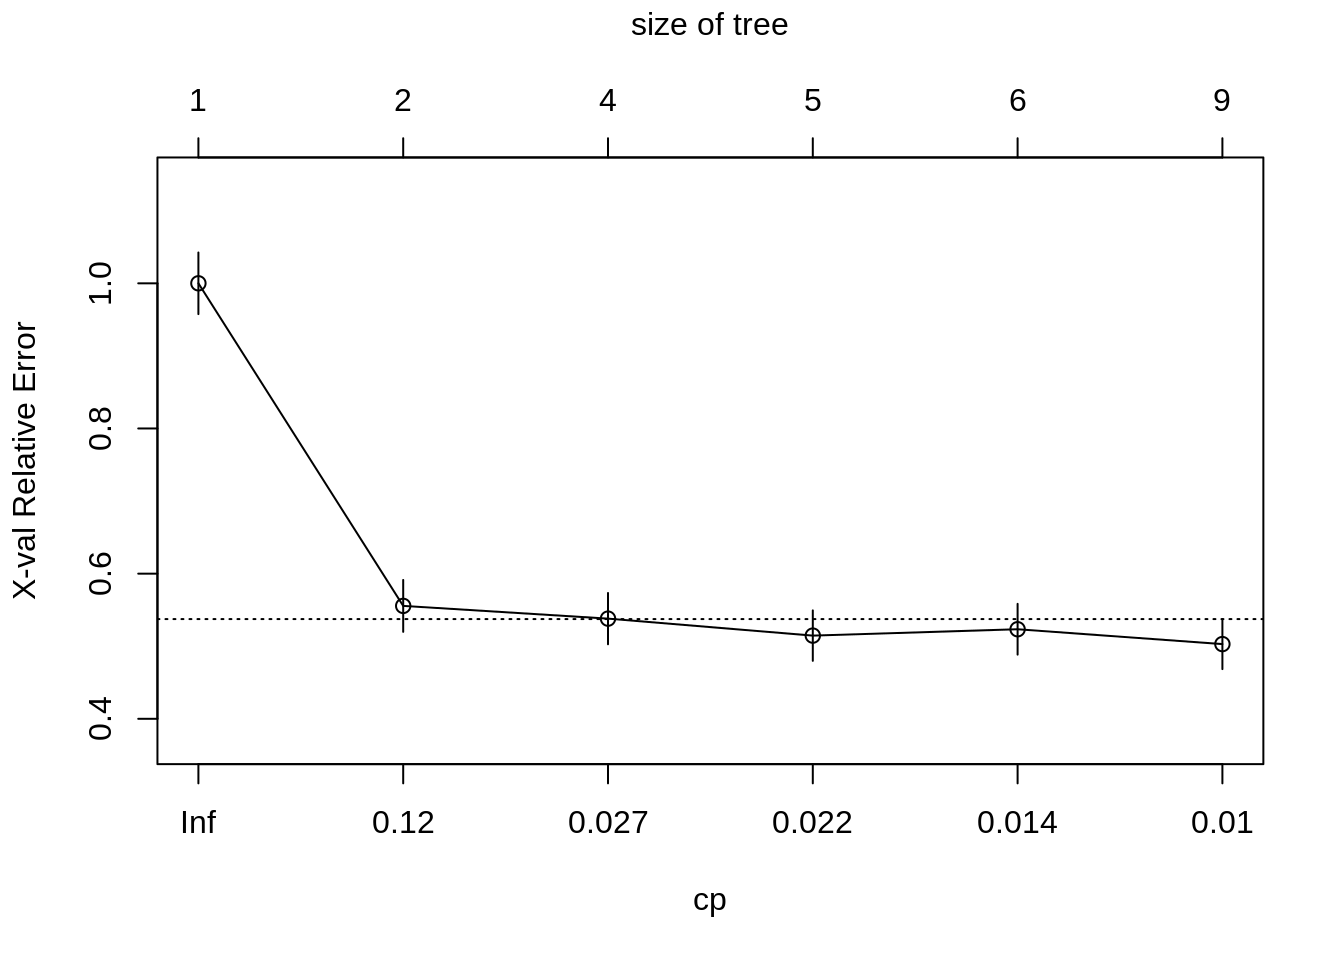
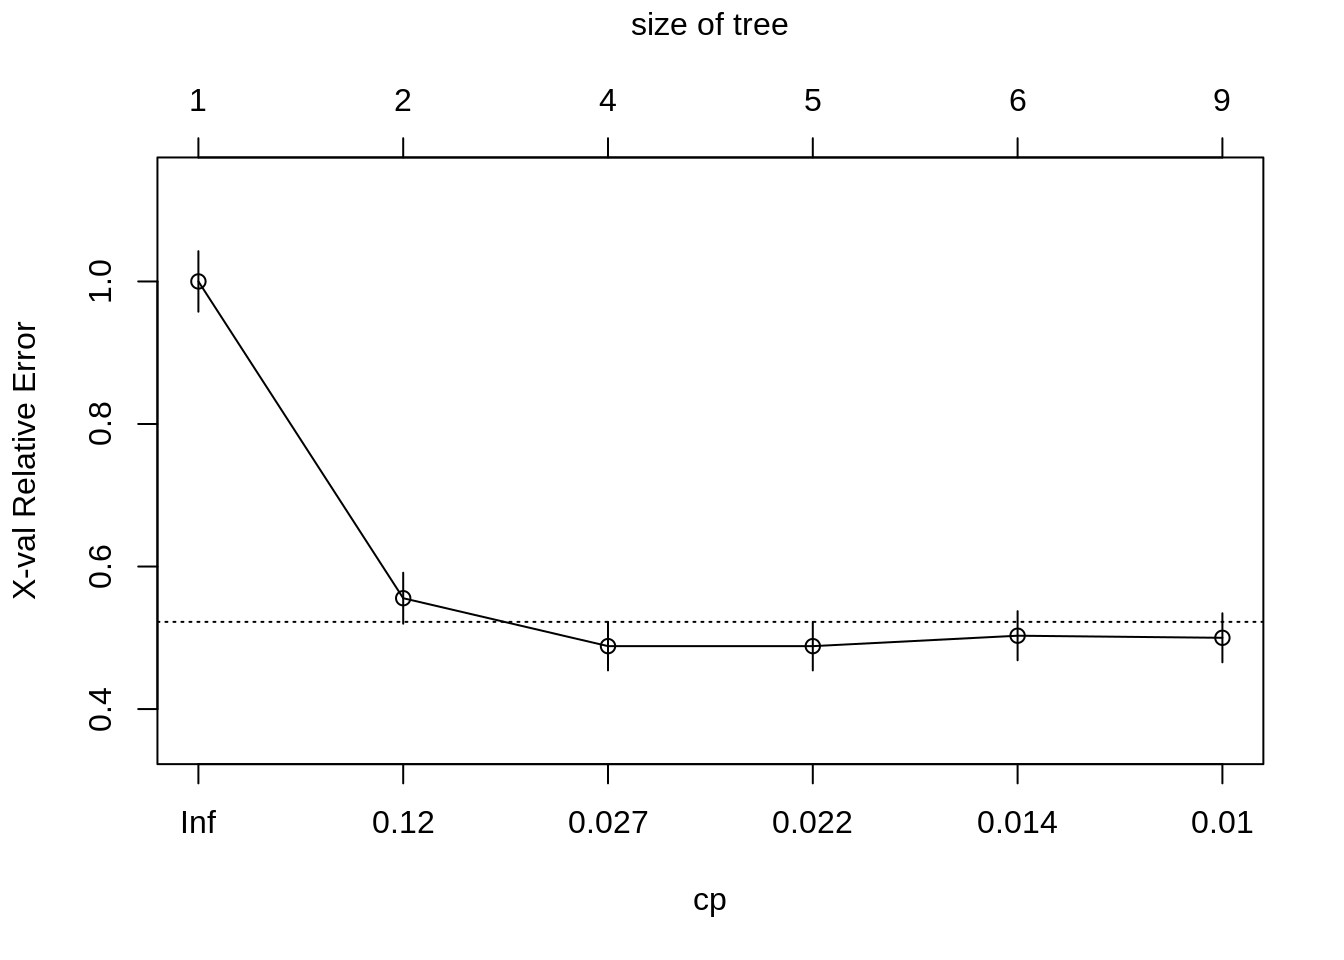
Deploy lebebr01/stat_thinking to github.com/lebebr01/stat_thinking.git:master

diff --git a/docs/classification.html b/docs/classification.html
@@ -324,10 +324,10 @@ titanic &lt;-<span class="st"> </span><span class="kw">bind_rows</span>(titanic_
 ##         CP nsplit rel error  xerror     xstd
 ## 1 0.444444      0   1.00000 1.00000 0.042446
 ## 2 0.030702      1   0.55556 0.55556 0.035750
-## 3 0.023392      3   0.49415 0.53801 0.035331
-## 4 0.020468      4   0.47076 0.51462 0.034749
-## 5 0.010234      5   0.45029 0.52339 0.034970
-## 6 0.010000      8   0.41813 0.50292 0.034448</code></pre>
+## 3 0.023392      3   0.49415 0.48830 0.034061
+## 4 0.020468      4   0.47076 0.48830 0.034061
+## 5 0.010234      5   0.45029 0.50292 0.034448
+## 6 0.010000      8   0.41813 0.50000 0.034372</code></pre>
 <div class="sourceCode"><pre class="sourceCode r"><code class="sourceCode r"><span class="kw">plotcp</span>(class_tree)</code></pre></div>
 <p><img src="05-classification_files/figure-html/unnamed-chunk-6-1.png" width="672" /></p>
 <div class="sourceCode"><pre class="sourceCode r"><code class="sourceCode r">prune_class_tree &lt;-<span class="st"> </span><span class="kw">prune</span>(class_tree, <span class="dt">cp =</span> .<span class="dv">02</span>)

diff --git a/docs/descriptive-statistics-numerically-describing-the-sample-data.html b/docs/descriptive-statistics-numerically-describing-the-sample-data.html
@@ -560,6 +560,7 @@ Y = \begin{pmatrix}10 - 24\\ 10-24\\ 20-24\\ 30-24\\ 50-24\end{pmatrix} = \begin
 <span class="st">  </span><span class="kw">df_stats</span>(<span class="op">~</span><span class="st"> </span>adm_rate, mae)</code></pre></div>
 <pre><code>##   mae_adm_rate
 ## 1    0.1692953</code></pre>
+<!-- This is a test. -->
 <!-- ## Considering Groups -->
 <!-- We've spent a lot of time trying to reason about other variables that may be important in explaining variation in our variable of interest. So far we have only explored the variable without considering other variables, in practice that is not that useful. -->
 <!-- Instead, it is common to compute conditional statistics based on other characteristics in the data. An example may help to show the idea more clearly. -->

diff --git a/docs/05-classification.md b/docs/05-classification.md
@@ -249,10 +249,10 @@ printcp(class_tree)
 ##         CP nsplit rel error  xerror     xstd
 ## 1 0.444444      0   1.00000 1.00000 0.042446
 ## 2 0.030702      1   0.55556 0.55556 0.035750
-## 3 0.023392      3   0.49415 0.53801 0.035331
-## 4 0.020468      4   0.47076 0.51462 0.034749
-## 5 0.010234      5   0.45029 0.52339 0.034970
-## 6 0.010000      8   0.41813 0.50292 0.034448
+## 3 0.023392      3   0.49415 0.48830 0.034061
+## 4 0.020468      4   0.47076 0.48830 0.034061
+## 5 0.010234      5   0.45029 0.50292 0.034448
+## 6 0.010000      8   0.41813 0.50000 0.034372
 ```
 
 ```r

diff --git a/docs/03-descriptive.md b/docs/03-descriptive.md
@@ -709,7 +709,7 @@ colleges %>%
 ```
 
 
-
+<!-- This is a test. -->
 
 <!-- ## Considering Groups -->
 <!-- We've spent a lot of time trying to reason about other variables that may be important in explaining variation in our variable of interest. So far we have only explored the variable without considering other variables, in practice that is not that useful. -->
